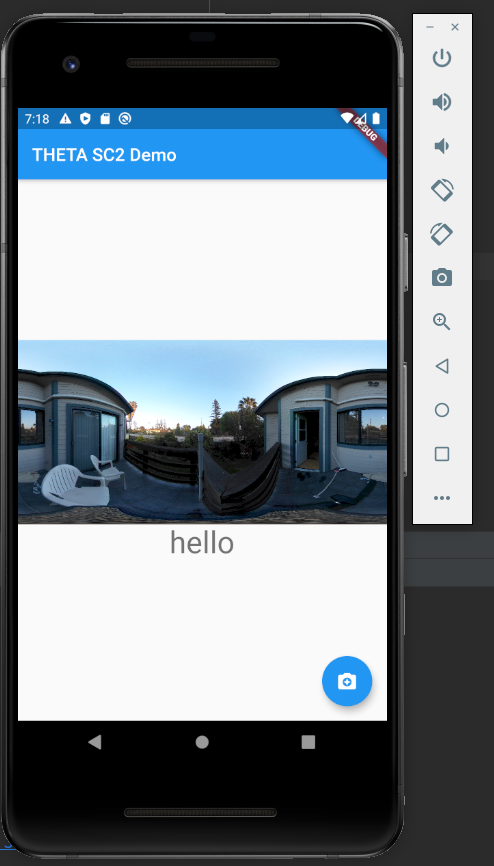
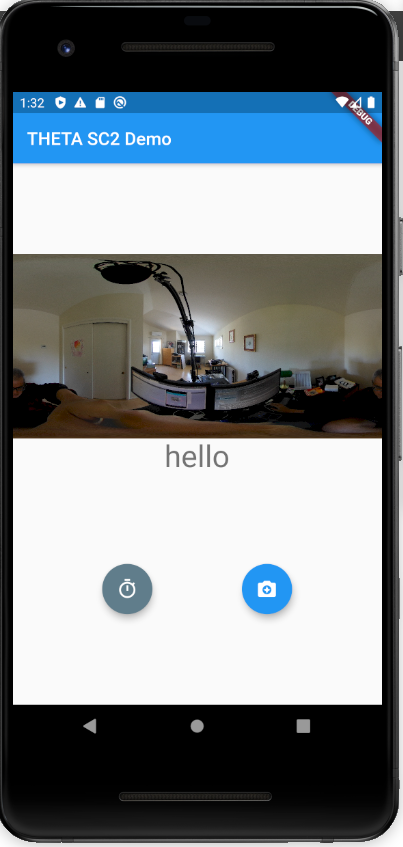
added button for self timer

diff --git a/lib/main.dart b/lib/main.dart
@@ -1,6 +1,7 @@
 import 'package:flutter/material.dart';
 import 'package:imagetest/download_ready.dart';
 import 'last_file.dart';
+import 'get_exposure_delay.dart';
 
 void main() {
   runApp(MyApp());
@@ -34,11 +35,26 @@ class MyHomePage extends StatefulWidget {
 
 class _MyHomePageState extends State<MyHomePage> {
   String url = 'https://picsum.photos/200';
+  Color selfTimerButtonColor = Colors.blueGrey;
+
   void _getPicture() async {
     await downloadReady();
     String tempUrl = await lastFile();
     setState(() {
       url = tempUrl;
+    });
+  }
+
+  void _getExposureDelay() async {
+    int currentExposureDelay = await getExposureDelay();
+    setState(() {
+      if (currentExposureDelay == 0) {
+        //TODO: set exposure delay to 5
+        selfTimerButtonColor = Colors.blueGrey;
+      } else {
+        selfTimerButtonColor = Colors.blue;
+        //TODO: set exposureDelay to 0
+      }
     });
   }
 
@@ -57,13 +73,29 @@ class _MyHomePageState extends State<MyHomePage> {
               'hello',
               style: Theme.of(context).textTheme.headline4,
             ),
+            SizedBox(
+              height: 100.0,
+            ),
+            Row(
+              mainAxisAlignment: MainAxisAlignment.spaceEvenly,
+              children: <Widget>[
+                FloatingActionButton(
+                  tooltip: 'Self-Timer',
+                  onPressed: getExposureDelay,
+                  backgroundColor: selfTimerButtonColor,
+                  child: Icon(
+                    Icons.timer,
+                  ),
+                ),
+                FloatingActionButton(
+                  onPressed: _getPicture,
+                  tooltip: 'Take Picture',
+                  child: Icon(Icons.camera_enhance),
+                ),
+              ],
+            ),
           ],
         ),
-      ),
-      floatingActionButton: FloatingActionButton(
-        onPressed: _getPicture,
-        tooltip: 'Take Picture',
-        child: Icon(Icons.camera_enhance),
       ),
     );
   }

diff --git a/lib/get_exposure_delay.dart b/lib/get_exposure_delay.dart
@@ -1,0 +1,37 @@
+/// get exposure delay for self-timer functionality
+/// https://api.ricoh/docs/theta-web-api-v2.1/options/exposure_delay/
+/// if exposure delay is zero, then self-timer is delayed. a value of 5
+/// means 5 second delay
+///
+import 'dart:async';
+import 'dart:convert';
+import 'package:http/http.dart' as http;
+import 'pretty_print.dart';
+
+
+Future<int> getExposureDelay () async {
+  var url ='http://192.168.1.1/osc/commands/execute';
+
+  Map data = {
+    'name': 'camera.getOptions',
+    'parameters': {
+      'optionNames': [
+        "exposureDelay",
+      ]
+    }
+  };
+
+  //encode Map to JSON
+  var body = jsonEncode(data);
+
+  var response = await http.post(url,
+      headers: {"Content-Type": "application/json;charset=utf-8"},
+      body: body
+  );
+  Map<String, dynamic> resp = jsonDecode(response.body);
+//  print("${response.statusCode}");
+  print(response.body);
+  int exposureDelayValue = resp['results']['options']['exposureDelay'];
+  print('Exposure delay value currently set to: $exposureDelayValue');
+  return exposureDelayValue;
+}
